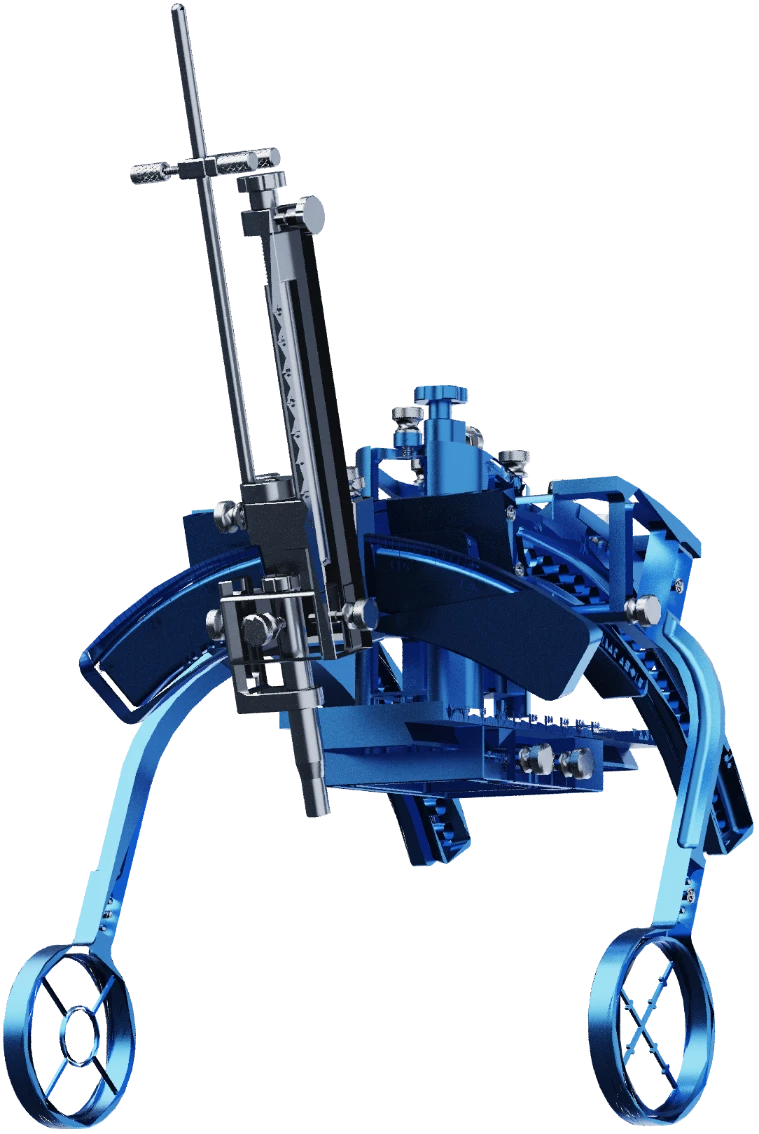
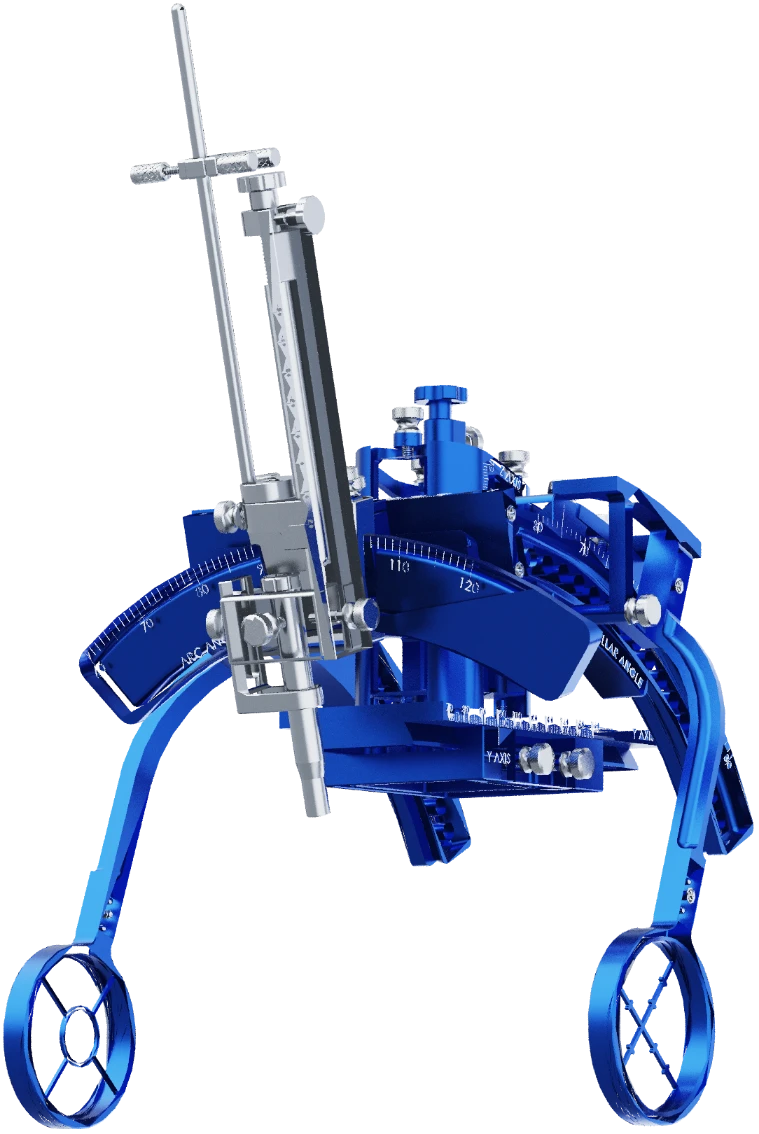
Render the NRSS scale engraving in white, and frame the hero so it reads
The arc and collar scales could not be read in the NRSS hero. Three causes,
all fixed here.

The engraving was drawn in the anodised blue around it. The CAD marks every
engraved face (the numerals, the ticks, ARC ANGLE and COLLAR ANGLE) with a
black surface fill: 3,672 faces, and nothing else in the file has it. The
tessellator ignored styling, so those faces were traced as blue relief. They
are now their own group, rendered as a flush white paint fill, as on the
instrument. The fill takes the sky unoccluded, because the CAD models the
engraving as an open groove and a groove floor traced honestly comes out dark.

The frame reflected a black studio. Anodised metal is mostly reflection, so
under a near-black sky it rendered dark navy and its shadowed side sank into
the page's dark ground. The studio is now bright, and the blue is re-matched
to NaviNetics' product photograph by sampling it.

The hero was too small for its detail. It framed the whole assembly, so the
microdrive rod made it tall and narrow and the page showed it at about 40%. The
tracer gains a 'crop' fit that frames the body, lets the top 30% of the rod run
off the picture as the photograph does, and moves the principal point off
centre to match. The hero is now nearly square (1198 x 1310) and is sized by
the column and the viewport together, so it shows at 642 x 702 on a 1440 x 900
laptop, up from about 400 x 612. The top edge is masked so the rod fades out
instead of being cut off.
[…]

Changed region(s): [[0.0, 0.0, 1.0, 1.0]]

diff --git a/src/ui/D1Hero.jsx b/src/ui/D1Hero.jsx
@@ -34,7 +34,7 @@ export function D1Hero() {
       >
         {/* Source order puts the instrument first so it is fetched first; on a
             wide screen it belongs on the right, which is what `order` does. */}
-        <div className="order-first lg:order-last lg:justify-self-center">
+        <div className="order-first lg:order-last lg:flex lg:w-full lg:justify-center">
           <img
             src={hero}
             width={FRAME.w}
@@ -45,11 +45,18 @@ export function D1Hero() {
             decoding="async"
             alt="The NRSS: an anodized blue arc-centered head frame with two curved rails, a
               targeting stage, and a bare-steel mechanical microdrive rising from its center."
-            /* Sized by HEIGHT once there is a column to stand in. The render is
-               tall and narrow, so capping its width instead puts the wheels
-               through the bottom of a laptop viewport. */
-            className="mx-auto block h-auto w-full max-w-[15rem] sm:max-w-[18rem]
-              lg:h-[68svh] lg:w-auto lg:max-w-none xl:h-[74svh]"
+            /* Capped by the column AND by the viewport height, whichever bites
+               first: the render is nearly square now (it used to be tall and
+               narrow, sized by height alone). The engraved arc and collar
+               scales are the reason for the size — at the old 40% they were a
+               few pixels high — so it takes all the room the column gives,
+               and the full width on a phone. */
+            /* The render crops the microdrive rod at its top edge, which on
+               the page is mid-air below the navbar; the mask fades it out
+               over the top 14% instead of slicing it off. */
+            className="mx-auto block h-auto w-full max-w-[28rem]
+              [mask-image:linear-gradient(to_bottom,transparent,#000_14%)]
+              lg:w-auto lg:max-w-full lg:max-h-[74svh] xl:max-h-[78svh]"
           />
         </div>
 

diff --git a/src/data/d1.js b/src/data/d1.js
@@ -53,9 +53,11 @@ import framePoster from '../assets/education/02.1.web.poster.webp';
 import { asset } from '../lib/asset.js';
 
 
-/** The one render: traced at 1700 × 2430 and encoded down to this. */
+/** The one render: traced at 2000 × 1900, cropped to its own alpha and
+    encoded down to this. Nearly square since 2026-11-11 — see the note on
+    VIEWS in tools/d1-frame.mjs for why the hero is cropped now. */
 export const hero = heroArt;
-export const FRAME = { w: 1027, h: 1565 };
+export const FRAME = { w: 1198, h: 1310 };
 
 /* The same object from the other side, for the closing band. Not a second
    asset in any meaningful sense — same mesh, same studio, same tracer, one
